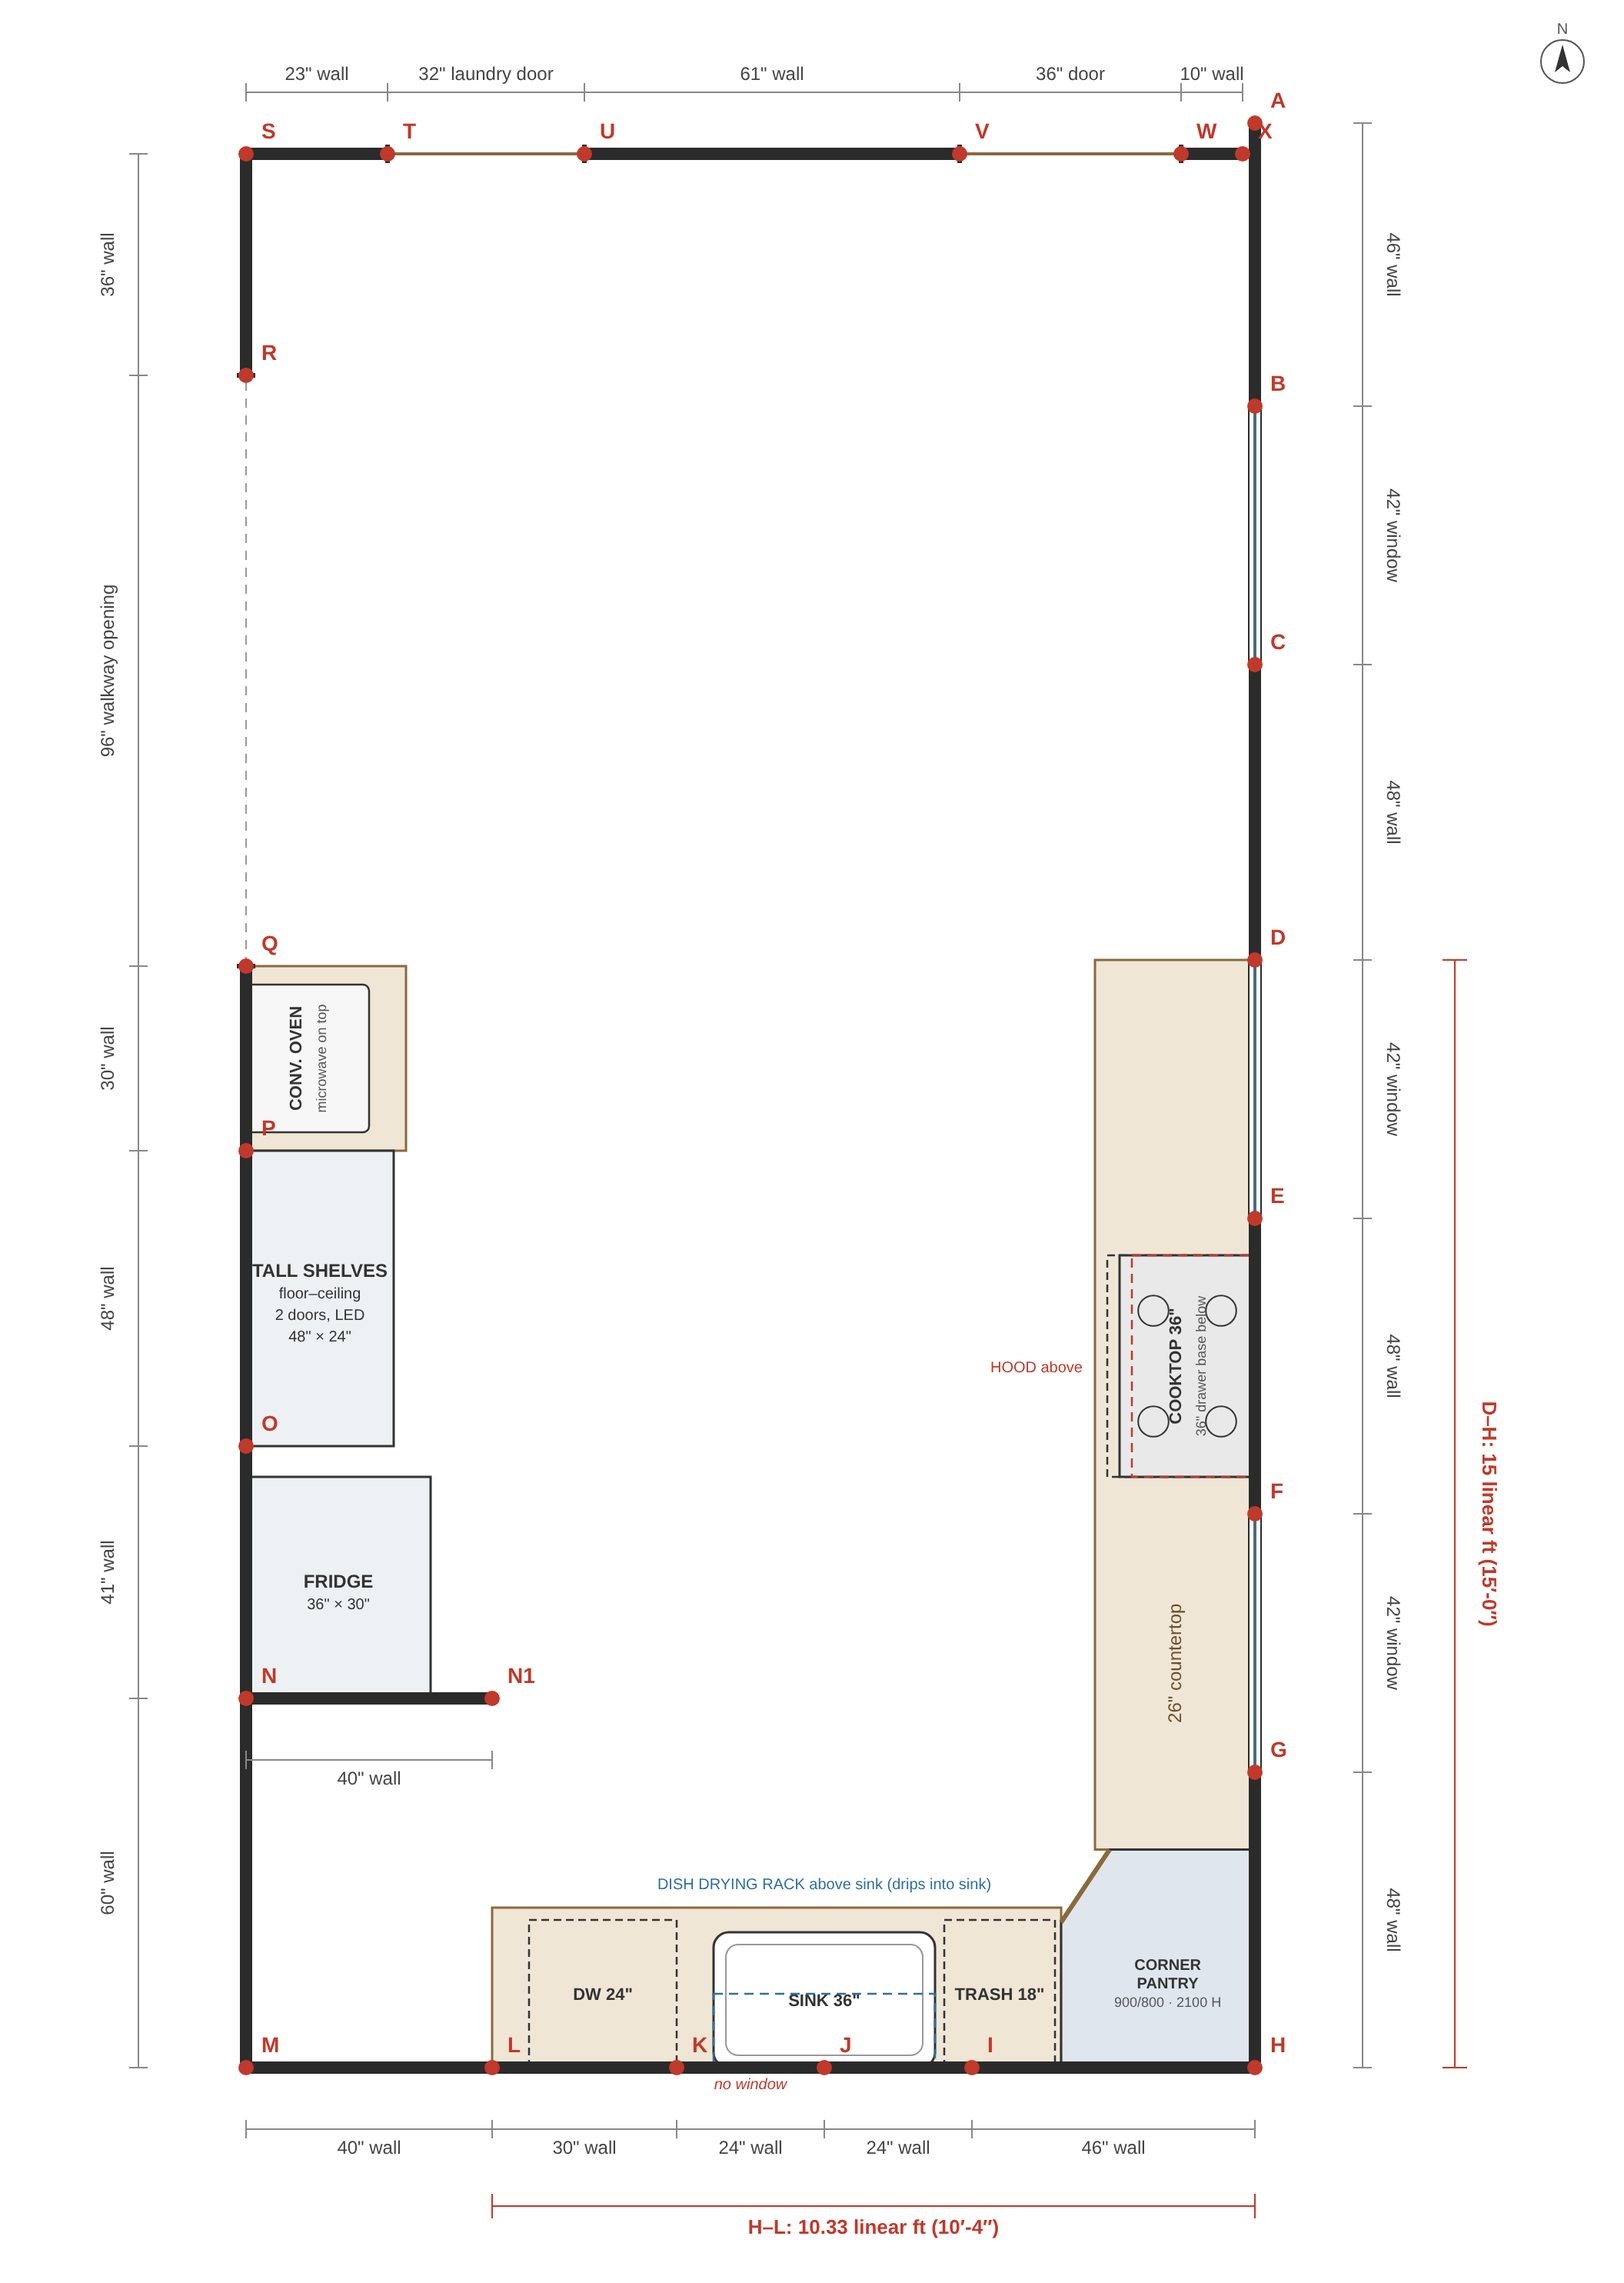
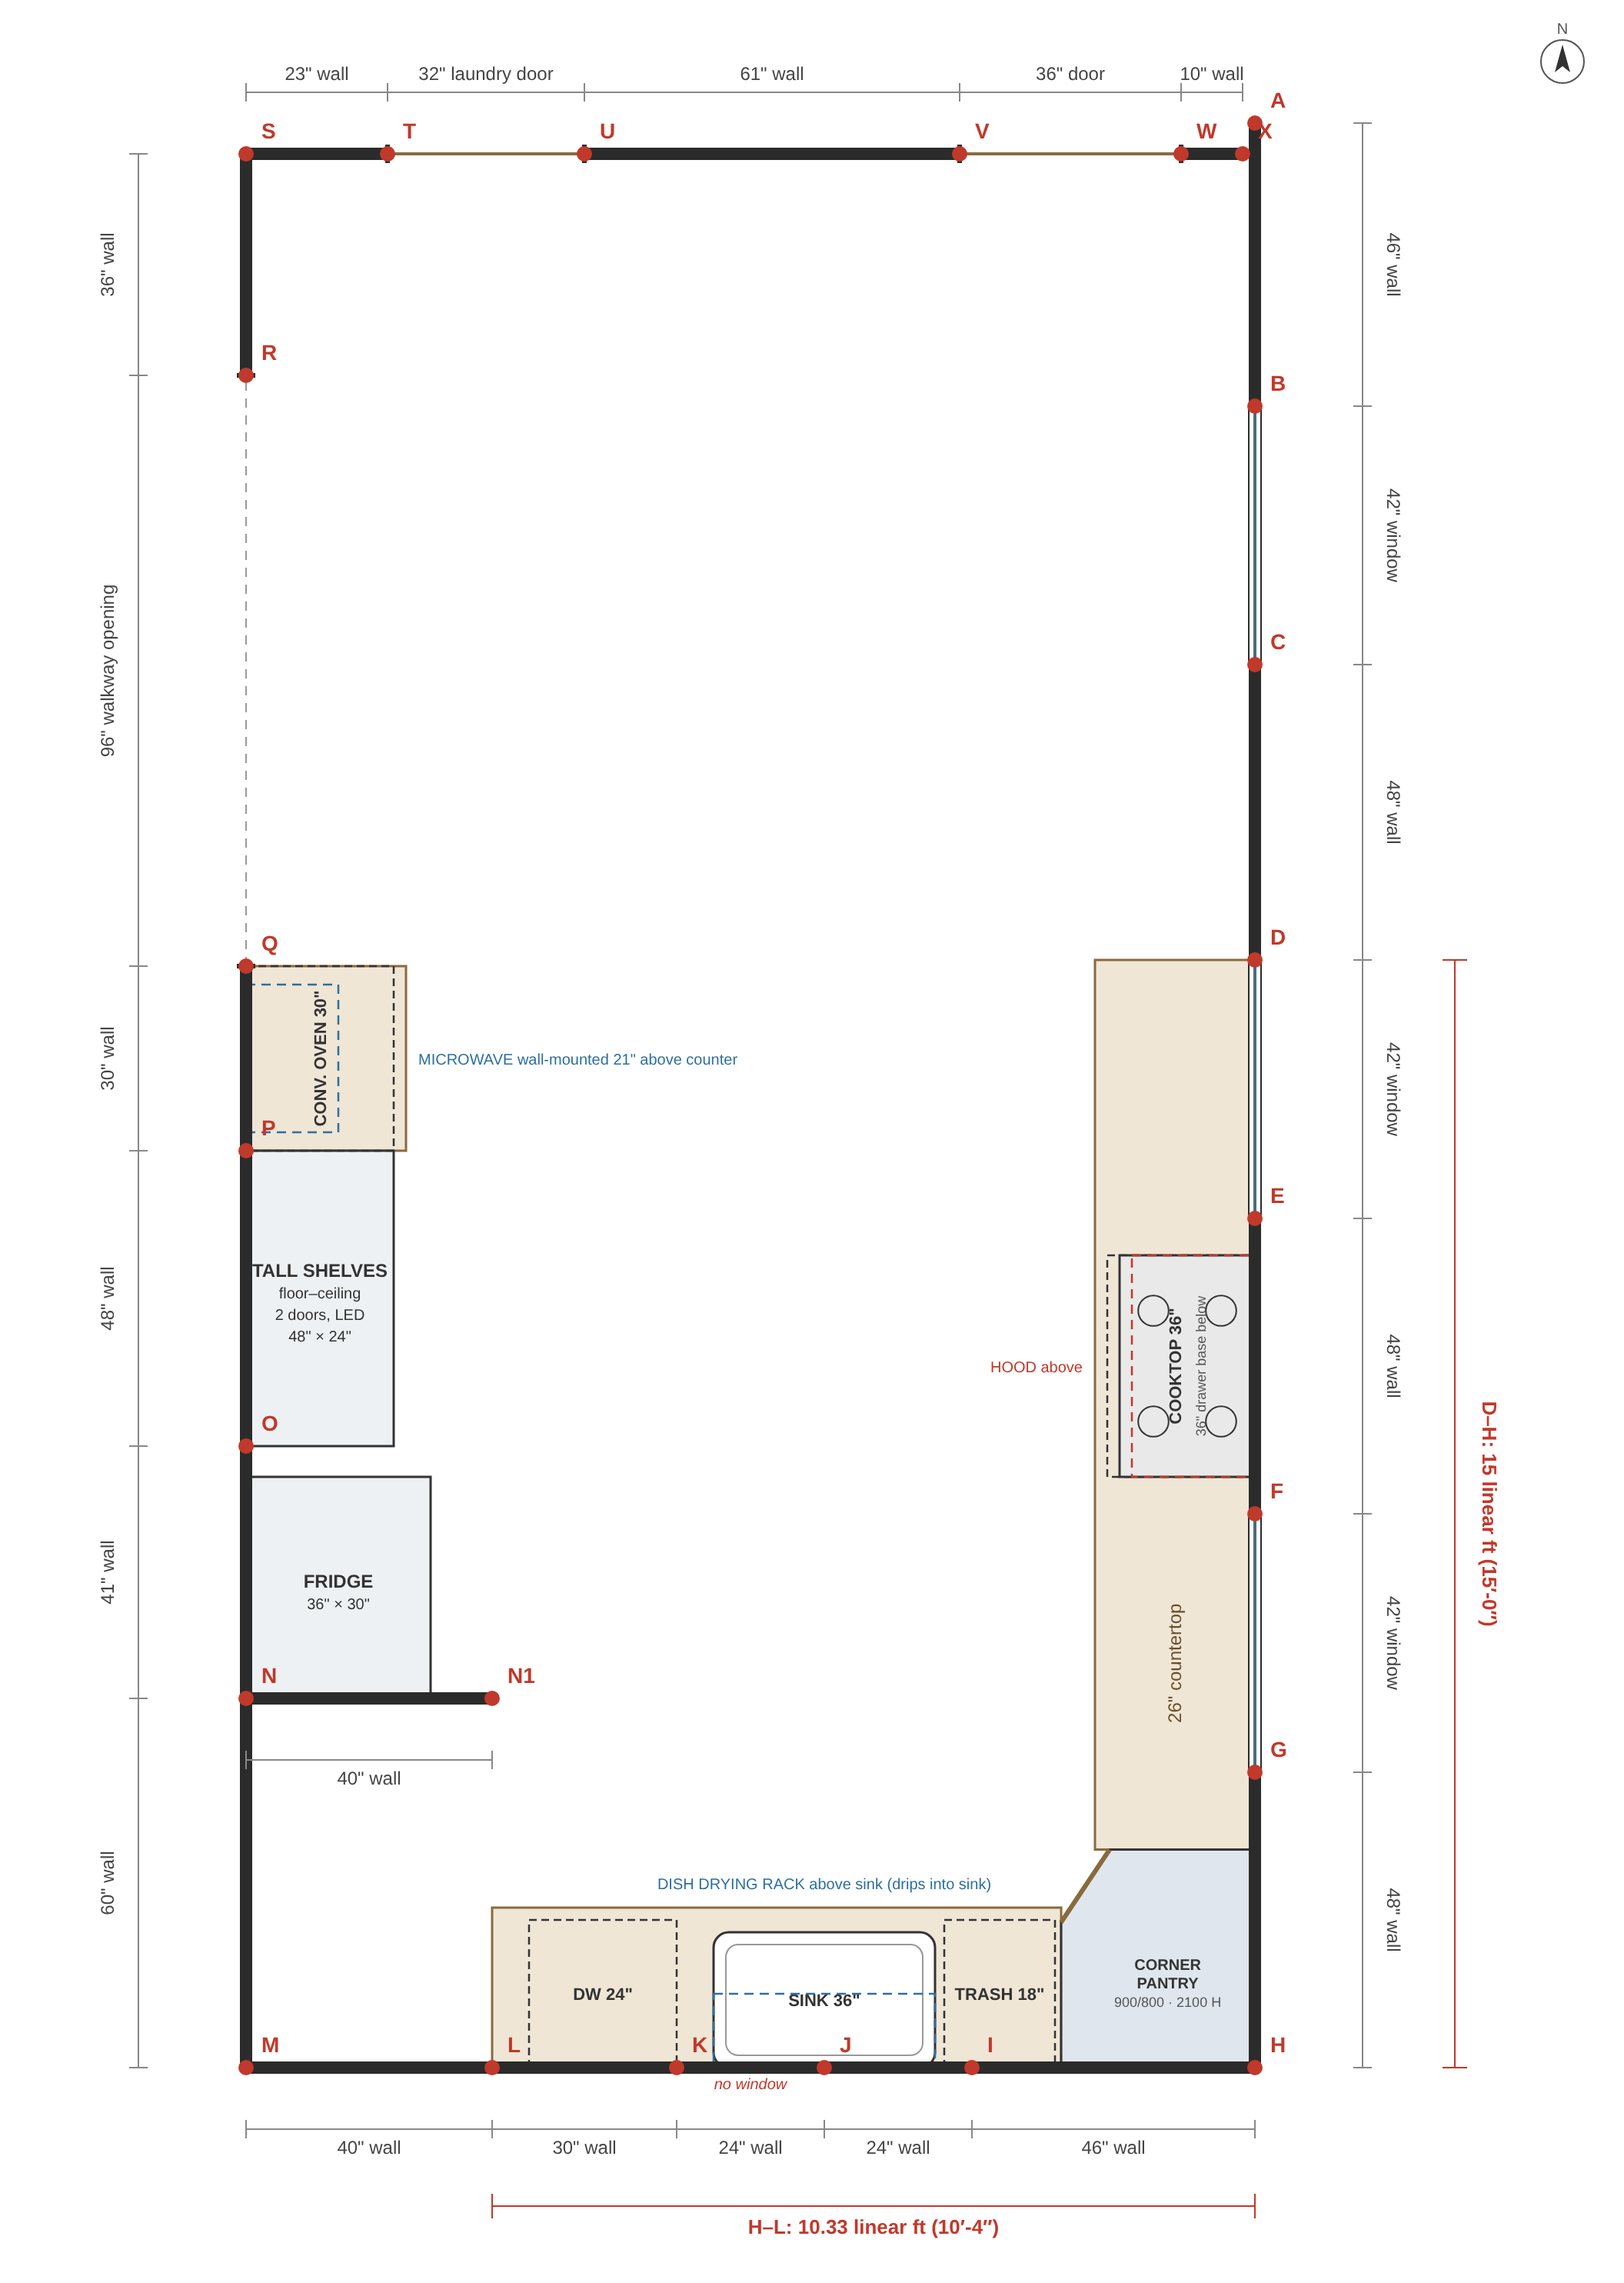
Floor plan: P-Q oven under counter, microwave wall-mounted 21in above
Claude-Session: https://claude.ai/code/session_01N1gJVqnW36KpNULQpj6QJQ

Changed region(s): [[0.1562, 0.403, 0.25, 0.496]]

diff --git a/floorplans/build_floorplan.py b/floorplans/build_floorplan.py
@@ -60,7 +60,8 @@ NO_WINDOW = [("J", "K")]
 # Fixtures placed along a wall run, measured in inches from the first point:
 # (kind, label, from, to, offset, width, depth). kind: range | hood | sink | under
 FIXTURES = [
-    ("onc", "CONV. OVEN|microwave on top", "Q", "P", 3, 24, 20),  # countertop appliances on the P-Q counter
+    ("under", "CONV. OVEN", "Q", "P", 0, 30, 24),  # built-in oven under the P-Q counter, no base cabinet
+    ("rack", "MICROWAVE wall-mounted 21\" above counter", "Q", "P", 3, 24, 15),
     ("under", "", "D", "H", 48, 36, 24),  # 36" drawer base (pots & pans) under the cooktop
     ("range", "COOKTOP|36\" drawer base below", "D", "H", 48, 36, 22),  # centred on solid wall E-F; cook faces east
     ("hood", "HOOD above", "D", "H", 48, 36, 20),  # vents straight out the exterior east wall
@@ -140,7 +141,9 @@ def build():
                 cur = max(cur, t1)
             if cur < hi:
                 gaps.append((cur, hi))
-            g0, g1 = max(gaps, key=lambda g: g[1] - g[0]) if gaps else (lo, hi)
+            if not gaps:  # run fully covered by fixtures
+                continue
+            g0, g1 = max(gaps, key=lambda g: g[1] - g[0])
             if g1 - g0 < 30:  # not enough clear counter to fit the label
                 continue
             pos = (g0 + g1) / 2
@@ -228,7 +231,7 @@ def build():
             g.append(f'<rect x="{x1}" y="{y1}" width="{x2 - x1}" height="{y2 - y1}" fill="none" stroke="#333" stroke-width="1.25" stroke-dasharray="5 3"/>')
         if kind not in ("hood", "rack"):
             vertical = a[1] == b[1]
-            rot = f' transform="rotate(-90 {cx} {cy})"' if vertical and kind in ("range", "sink", "onc") else ""
+            rot = f' transform="rotate(-90 {cx} {cy})"' if vertical and kind in ("range", "sink", "onc", "under") else ""
             title, _, sub = name.partition("|")
             if title:
                 dy = -4 if sub else 4
